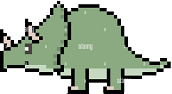
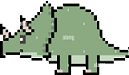
Game_Dino. Update Images and hammer animation

Changed region(s): [[0.0, 0.0, 1.0, 1.0]]

diff --git a/dino_runner/components/dinosaur.py b/dino_runner/components/dinosaur.py
@@ -1,10 +1,10 @@
 import pygame
 from pygame.sprite import Sprite 
-from dino_runner.utils.constants import DEFAULT_TYPE, SHIELD_TYPE, DUCKING_HAMMER, JUMPING_HAMMER, RUNNING_HAMMER, HAMMER_TYPE, RUNNING, JUMPING, DUCKING, DINORED_JUMP, DUCKING_RED, DINORED
+from dino_runner.utils.constants import DEFAULT_TYPE, SHIELD_TYPE, HAMMER_TYPE, DINORED_JUMP, DUCKING_RED, DINORED, DINORED_HAMMER, DINORED_SHIELD, DUCKING_HAMMER_RED, DUCKING_SHIELD_RED, JUMP_HAMMER_RED, JUMP_SHIELD_RED
 
-RUN_IMAGE = {DEFAULT_TYPE: RUNNING, SHIELD_TYPE: DINORED, HAMMER_TYPE: RUNNING_HAMMER}
-DUCK_IMAGE = {DEFAULT_TYPE: DUCKING, SHIELD_TYPE: DUCKING_RED, HAMMER_TYPE: DUCKING_HAMMER}
-JUMP_IMAGE = {DEFAULT_TYPE: JUMPING, SHIELD_TYPE: DINORED_JUMP, HAMMER_TYPE:JUMPING_HAMMER}
+RUN_IMAGE = {DEFAULT_TYPE: DINORED, SHIELD_TYPE: DINORED_SHIELD, HAMMER_TYPE: DINORED_HAMMER}
+DUCK_IMAGE = {DEFAULT_TYPE: DUCKING_RED, SHIELD_TYPE: DUCKING_SHIELD_RED, HAMMER_TYPE: DUCKING_HAMMER_RED}
+JUMP_IMAGE = {DEFAULT_TYPE: DINORED_JUMP, SHIELD_TYPE: JUMP_SHIELD_RED, HAMMER_TYPE: JUMP_HAMMER_RED}
 
 class Dinosaur:
     X_POS = 80
@@ -13,7 +13,7 @@ class Dinosaur:
     JUMP_SPEED = 8.5
 
     def __init__(self):
-        self.image = RUNNING[0]
+        self.image = DINORED[0]
         self.dino_rect = self.image.get_rect()
         self.dino_rect.x = self.X_POS
         self.dino_rect.y = self.Y_POS
@@ -37,7 +37,7 @@ class Dinosaur:
         elif self.dino_ducking:
             self.ducking()
 
-        if self.step_index >= 9:
+        if self.step_index >= 5:
             self.step_index = 0
 
         if user_input[pygame.K_UP] and not self.dino_jump:
@@ -59,7 +59,7 @@ class Dinosaur:
 
     def run(self):
         #self.image = DINORED[0] if self.step_index < 5 else DINORED[1]
-        self.image = RUN_IMAGE[self.type][self.step_index//5]
+        self.image = RUN_IMAGE[self.type][self.step_index//3]
         self.dino_rect = self.image.get_rect()
         self.dino_rect.x = self.X_POS
         self.dino_rect.y = self.Y_POS
@@ -69,7 +69,7 @@ class Dinosaur:
         #self.image = DINORED_JUMP
         self.image = JUMP_IMAGE[self.type]
         self.dino_rect.y -= self.jump_speed*4
-        self.jump_speed -= 0.8
+        self.jump_speed -= 0.7
         
         if self.jump_speed < -self.JUMP_SPEED:
             self.dino_rect.y = self.Y_POS
@@ -78,7 +78,7 @@ class Dinosaur:
 
     def ducking(self):
         #self.image = DUCKING_RED[0] if self.step_index < 5 else DUCKING_RED[1]
-        self.image = DUCK_IMAGE[self.type][self.step_index//5]
+        self.image = DUCK_IMAGE[self.type][self.step_index//3]
         self.dino_rect = self.image.get_rect()
         self.dino_rect.x = self.X_POS
         self.dino_rect.y = self.Y_POS_ducking
@@ -86,7 +86,7 @@ class Dinosaur:
         self.step_index += 1
 
     def reset(self):
-        self.image = RUNNING[0]
+        self.image = DINORED[0]
         self.dino_rect.x = self.X_POS
         self.dino_rect.y = self.Y_POS
         self.dino_run = True

diff --git a/dino_runner/utils/constants.py b/dino_runner/utils/constants.py
@@ -9,7 +9,7 @@ FPS = 30
 IMG_DIR = os.path.join(os.path.dirname(__file__), "..", "assets")
 
 # Assets Constants
-ICON = pygame.image.load(os.path.join(IMG_DIR, "DinoWallpaper.png"))
+ICON = pygame.image.load(os.path.join(IMG_DIR, "DinoRED/DINO1.png"))
 
 RUNNING = [
     pygame.image.load(os.path.join(IMG_DIR, "Dino/DinoRun1.png")),
@@ -96,12 +96,46 @@ DUCKING_RED = [
     pygame.image.load(os.path.join(IMG_DIR, "DinoRED/DINO4.png")),
 ]
 
+DINORED_HAMMER = [
+    pygame.image.load(os.path.join(IMG_DIR, "DinoRED/DINO_HAMMER3.png")),
+    pygame.image.load(os.path.join(IMG_DIR, "DinoRED/DINO_HAMMER4.png")),
+]
+
+DUCKING_HAMMER_RED = [
+    pygame.image.load(os.path.join(IMG_DIR, "DinoRED/DINO_HAMMER1.png")),
+    pygame.image.load(os.path.join(IMG_DIR, "DinoRED/DINO_HAMMER2.png")),
+]
+
+JUMP_HAMMER_RED = pygame.image.load(os.path.join(IMG_DIR, "DinoRED/DINO_HAMMER5.png"))    
+
+DINORED_SHIELD = [ 
+    pygame.image.load(os.path.join(IMG_DIR, "DinoRED/DINO_SHIELD3.png")),
+    pygame.image.load(os.path.join(IMG_DIR, "DinoRED/DINO_SHIELD4.png")),
+]
+
+DUCKING_SHIELD_RED = [
+    pygame.image.load(os.path.join(IMG_DIR, "DinoRED/DINO_SHIELD1.png")),
+    pygame.image.load(os.path.join(IMG_DIR, "DinoRED/DINO_SHIELD2.png")),
+]
+
+JUMP_SHIELD_RED = pygame.image.load(os.path.join(IMG_DIR, "DinoRED/DINO_SHIELD5.png"))
+
 DINOMONSTER = [
     pygame.image.load(os.path.join(IMG_DIR, "DinoRED/Dinomonster1.png")),
     pygame.image.load(os.path.join(IMG_DIR, "DinoRED/Dinomonster2.png")),
 ]
 
 GAMEOVER = pygame.image.load(os.path.join(IMG_DIR, "Other/GameOver.png"))
+
+SHIELD_RED = pygame.image.load(os.path.join(IMG_DIR, "DinoRED/SHIELD.png"))
+HAMMER_RED =pygame.image.load(os.path.join(IMG_DIR, "DinoRED/HAMMER1.png"))
+
+HAMMER_RED2 = [
+    pygame.image.load(os.path.join(IMG_DIR, "DinoRED/HAMMER1.png")),
+    pygame.image.load(os.path.join(IMG_DIR, "DinoRED/HAMMER2.png")),
+    pygame.image.load(os.path.join(IMG_DIR, "DinoRED/HAMMER3.png")),
+    pygame.image.load(os.path.join(IMG_DIR, "DinoRED/HAMMER4.png")),
+]
 
 FONDO1 = pygame.image.load(os.path.join(IMG_DIR, "DinoRED/FONDO.png"))
 FONDO2 = pygame.image.load(os.path.join(IMG_DIR, "DinoRED/FONDO2.png"))

diff --git a/dino_runner/components/obstacles/obstacle_manager.py b/dino_runner/components/obstacles/obstacle_manager.py
@@ -4,13 +4,15 @@ from dino_runner.components.cactus import Cactus, Cactus2
 from dino_runner.components.bird import Bird
 from dino_runner.components.dinomonster import DinoMonster
 from dino_runner.components.powerups.hammer import Hammer1
-from dino_runner.utils.constants import SMALL_CACTUS, LARGE_CACTUS, BIRD, SHIELD_TYPE, DINOMONSTER
+from dino_runner.utils.constants import SMALL_CACTUS, LARGE_CACTUS, BIRD, SHIELD_TYPE, DINOMONSTER, HAMMER_RED2
 
 class Obstacle_manager:
     def __init__(self):
         self.obstacles = []
+        self.image = HAMMER_RED2
         self.dino_deaths = 0
         self.hammer = Hammer1()
+        self.step_index = 0
         
     def update(self, game):  
         if len(self.obstacles) == 0:        
@@ -47,7 +49,7 @@ class Obstacle_manager:
             if game.player.dino_rect.colliderect(obstacle.rect):
                 #controlando si el dino tiene shield o no
                 if game.player.type != SHIELD_TYPE:
-                    #game.playing = False
+                    game.playing = False
                     self.dino_deaths += 1
                     break 
                 else:
@@ -55,10 +57,16 @@ class Obstacle_manager:
                
     def draw(self, game, screen):
         for obstacle in self.obstacles:
-            obstacle.draw(screen)
-        if game.player.hammer_active:
-            screen.blit(self.hammer.image, self.hammer.image_rect)
+            obstacle.draw(screen)   
 
+        if self.step_index >= 3:
+            self.step_index = 0
+
+        if game.player.hammer_active:
+            #screen.blit(self.image[self.step_index // 5], self.rect)
+            screen.blit(self.image[self.step_index], self.hammer.image_rect)
+            self.step_index += 1
+            
     def reset_obstacles(self):
         self.obstacles = []
         self.hammer.reset_pos()     

diff --git a/dino_runner/components/powerups/hammer.py b/dino_runner/components/powerups/hammer.py
@@ -1,16 +1,16 @@
 import pygame
 from pygame.sprite import Sprite
 from dino_runner.components.powerups.powerup import Powerup
-from dino_runner.utils.constants import HAMMER, HAMMER_TYPE
+from dino_runner.utils.constants import HAMMER_RED, HAMMER_TYPE
 
 class Hammer(Powerup, Sprite):
     def __init__(self):
-        super().__init__(HAMMER, HAMMER_TYPE)
+        super().__init__(HAMMER_RED, HAMMER_TYPE)
 
 class Hammer1(Sprite):
     X_POS = 80
     def __init__(self):
-        self.image = HAMMER
+        self.image = HAMMER_RED
         self.image_rect = self.image.get_rect()
         self.image_rect.x = self.X_POS
 

diff --git a/dino_runner/components/powerups/powerup_manager.py b/dino_runner/components/powerups/powerup_manager.py
@@ -9,7 +9,7 @@ class PowerupManager:
         self.powerups = []
         self.duration = random.randint(3, 5)
         self.appears_when = random.randint(50, 70)
-        self.index = 0
+        self.index = 1
 
     def update(self, game):
         #controlamos las apariciones del powerup
@@ -42,7 +42,7 @@ class PowerupManager:
     def reset_powerups(self):
         self.powerups = []
         self.appears_when = random.randint(50, 70)
-        self.index = 0
+        self.index = 1
         
     def generate_powerup(self):
         self.appears_when = random.randint(100, 300)

diff --git a/dino_runner/components/powerups/shield.py b/dino_runner/components/powerups/shield.py
@@ -1,7 +1,7 @@
 import pygame
 from dino_runner.components.powerups.powerup import Powerup
-from dino_runner.utils.constants import SHIELD, SHIELD_TYPE
+from dino_runner.utils.constants import SHIELD_RED, SHIELD_TYPE
 
 class Shield(Powerup):
     def __init__(self):
-        super().__init__(SHIELD, SHIELD_TYPE)
+        super().__init__(SHIELD_RED, SHIELD_TYPE)

diff --git a/dino_runner/components/game.py b/dino_runner/components/game.py
@@ -26,7 +26,7 @@ class Game:
         self.score = Counter()
         self.clouds = Clouds(CLOUDS)
         self.powerup_manager = PowerupManager()
-        MUSIC.play()
+        #MUSIC.play()
 
     def execute(self):
         self.running = True

diff --git a/dino_runner/components/dinomonster.py b/dino_runner/components/dinomonster.py
@@ -6,4 +6,4 @@ class DinoMonster(Obstacle):
     def __init__(self, image):
         self.type = random.randint(0,1)
         super().__init__(image, self.type)
-        self.rect.y = 300
+        self.rect.y = 315
